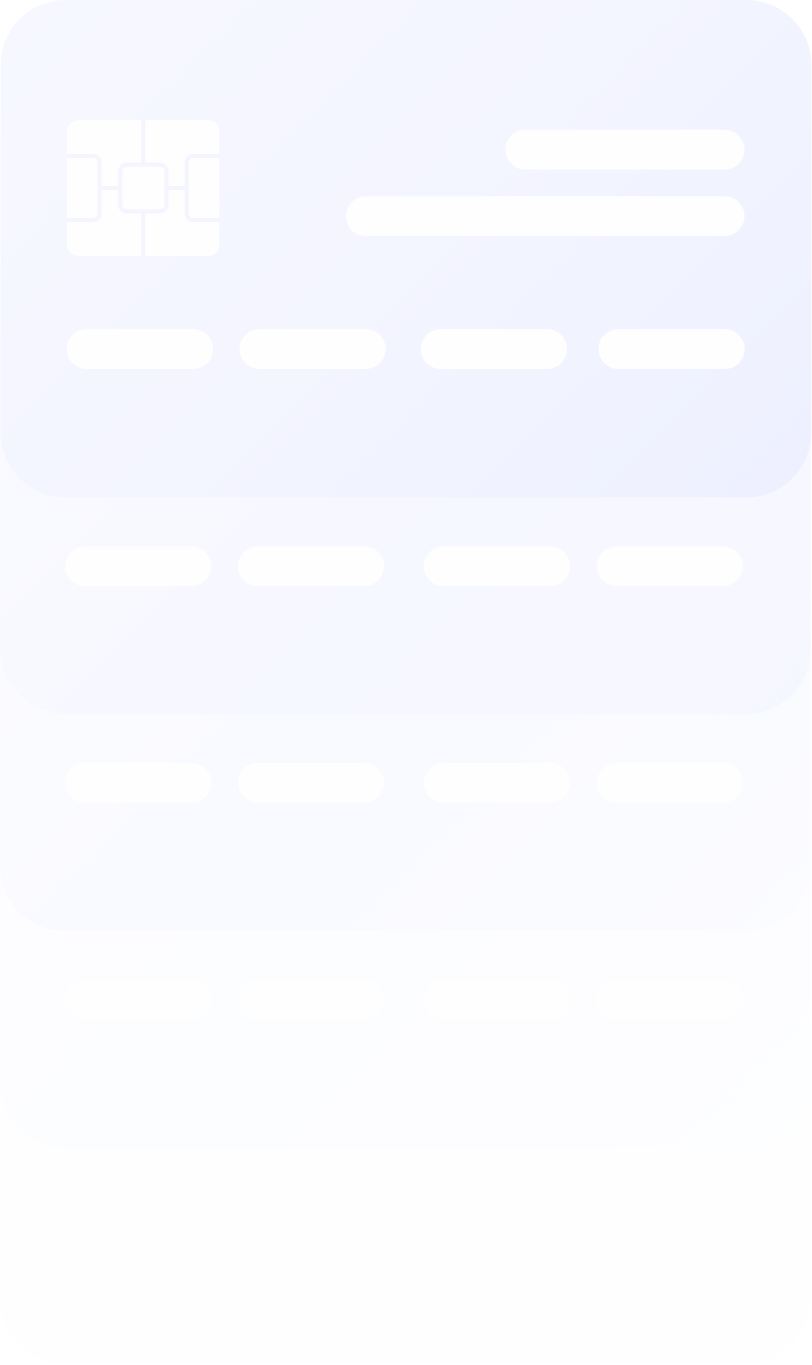
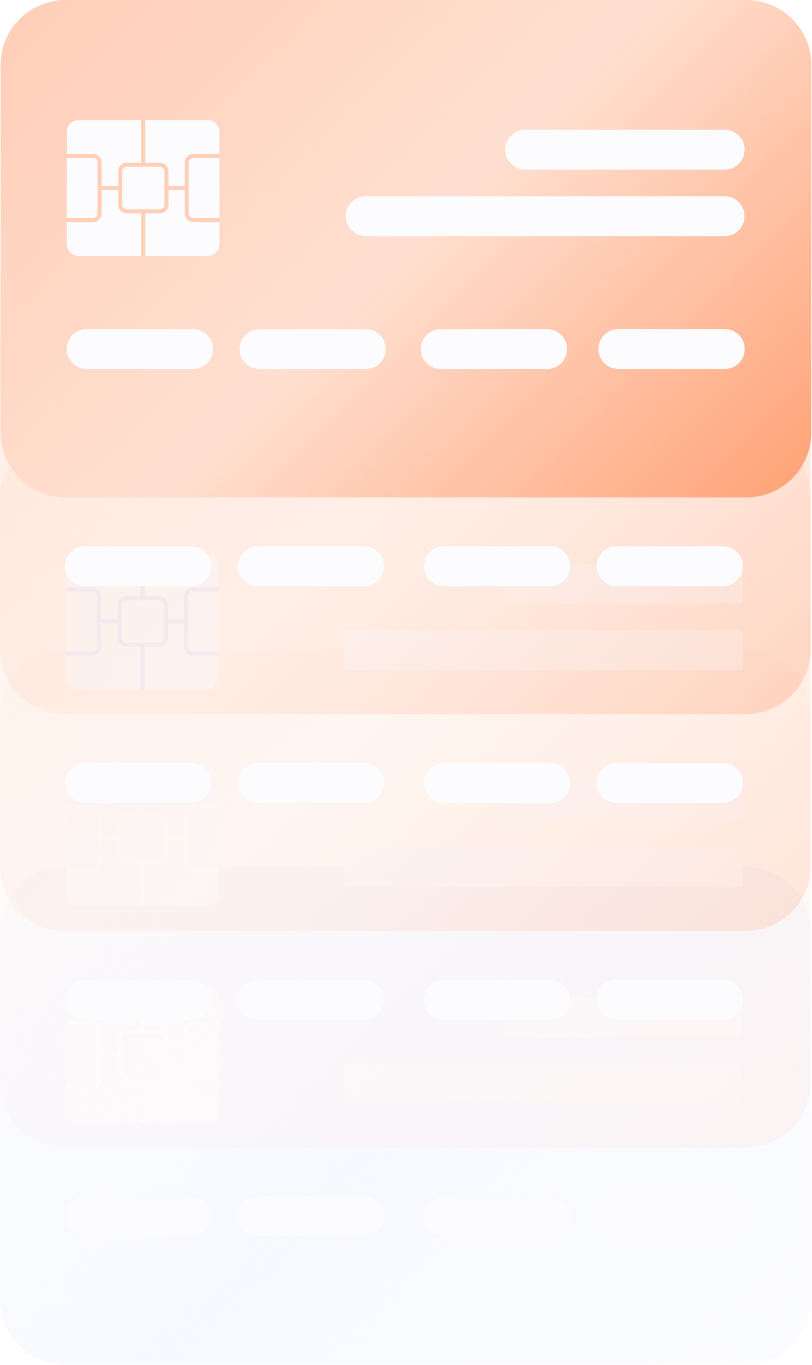
updates to homepage

diff --git a/homepage/homepage.html b/homepage/homepage.html
@@ -82,7 +82,7 @@
       }
 
       .hero_container .hero_title .second_title_line {
-        color: #4860F5;
+        color: #FF5604;
         font-family: Inter;
         font-size: 4.375rem;
         font-style: normal;
@@ -129,14 +129,14 @@
         transition: all 0.3s ease;
         width: 129px;
         border-radius: 0.3125rem;
-        background: var(--Gradiente, linear-gradient(85deg, #4860F5 26.96%, #93F 100%));
+        background: linear-gradient(297deg, #FF5604 0%, #FF8E57 100%);
       }
 
       .hero_container .hero_btn:hover {
         background: transparent !important;
-        border: 1px solid #513CE1;
+        border: 1px solid #FF5604;
         box-shadow: 0 10px 20px #282a3017;
-        color: #513CE1;
+        color: #FF5604;
         text-decoration: none !important;
       }
 
@@ -167,7 +167,7 @@
 
       .cards_container .card:hover {
         cursor: pointer;
-        border: 1px solid #4860F5;
+        border: 1px solid #FF5604;
         box-shadow: 0 10px 20px #282a3017;
         transform: translateY(-5px);
       }
@@ -185,15 +185,15 @@
       }
 
       .cards_container .image1 {
-        background-image: url('https://github.com/writechoiceorg/mo-tech-docs/blob/main/homepage/cards/card1.png?raw=true')
+        background-image: url('https://github.com/writechoiceorg/mo-tech-docs/blob/main/homepage/cards/orange-card1.png?raw=true')
       }
 
       .cards_container .image2 {
-        background-image: url('https://github.com/writechoiceorg/mo-tech-docs/blob/main/homepage/cards/card2.png?raw=true')
+        background-image: url('https://github.com/writechoiceorg/mo-tech-docs/blob/main/homepage/cards/orange-card2.png?raw=true')
       }
 
       .cards_container .image3 {
-        background-image: url('https://github.com/writechoiceorg/mo-tech-docs/blob/main/homepage/cards/card3.png?raw=true')
+        background-image: url('https://github.com/writechoiceorg/mo-tech-docs/blob/main/homepage/cards/orange-card3.png?raw=true')
       }
 
       .cards_container .card_text {
